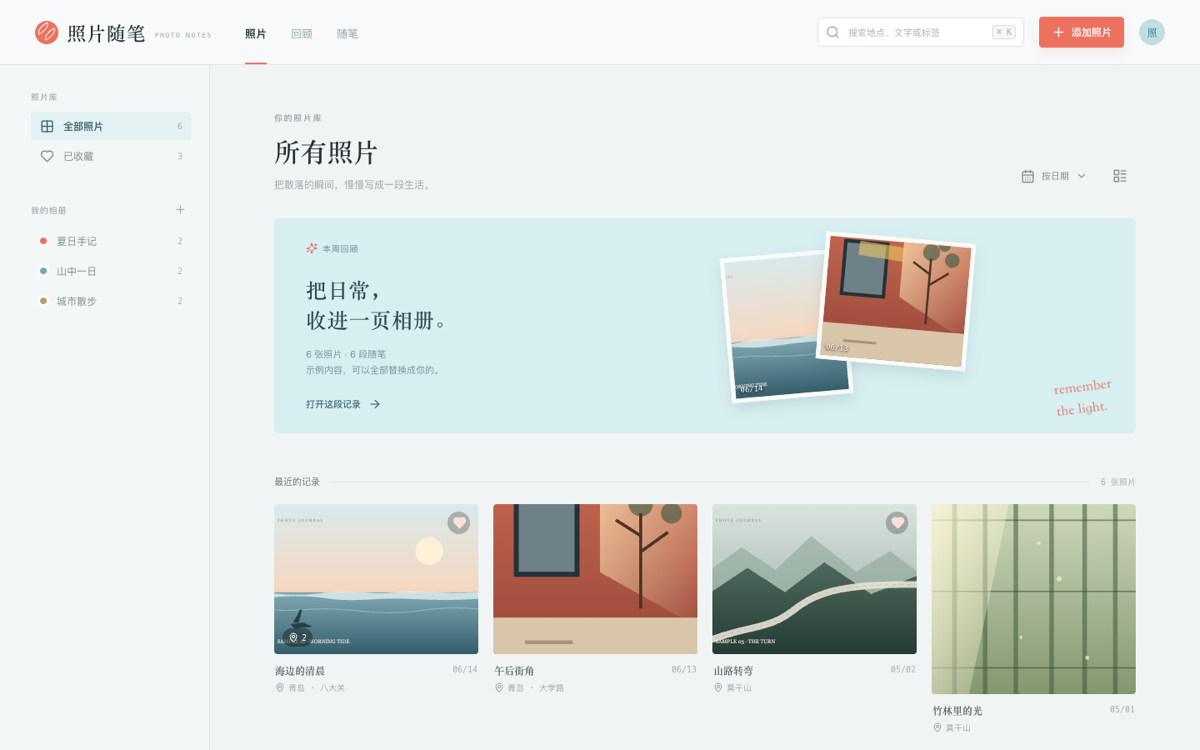
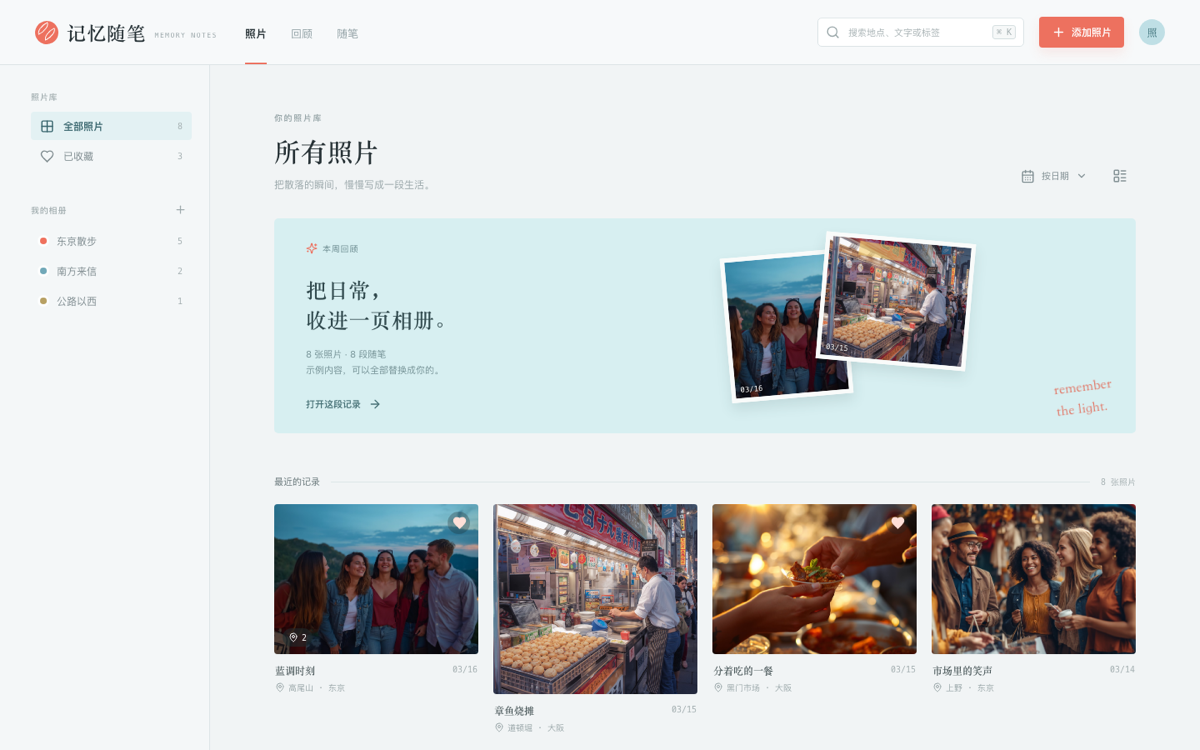
feat: restore the Memory Journal name and use real demo photos

diff --git a/src/main.jsx b/src/main.jsx
@@ -11,48 +11,58 @@ import './styles.css'
 const P = `${import.meta.env.BASE_URL}photos/`
 const seedPhotos = [
   {
-    id: 1, src: P + 'sample-01.svg', title: '海边的清晨', date: '2025.06.14', place: '青岛 · 八大关', album: '夏日手记',
-    note: '六点不到，海边只有跑步的人和收网的船。风把云推得很慢，我们沿着堤岸走了很久，没有说太多话。',
-    tags: ['海', '清晨'], favorite: true, aspect: 'wide',
-    pins: [{ id: 11, x: 56, y: 38, text: '远处的船刚出海。' }, { id: 12, x: 78, y: 66, text: '礁石上还留着潮水。' }], strokes: []
+    id: 1, src: P + 'memory-01.jpg', title: '蓝调时刻', date: '2025.03.16', place: '高尾山 · 东京', album: '东京散步',
+    note: '下山前的十分钟，天色突然变成很深的蓝。我们谁也没有催促谁，只是一起站在风里。后来想起东京，最先出现的不是霓虹，而是这一刻。',
+    tags: ['朋友', '山野', '黄昏'], favorite: true, aspect: 'wide',
+    pins: [{ id: 11, x: 54, y: 34, text: '风从山谷里吹上来，很凉。' }, { id: 12, x: 76, y: 59, text: '所有人都笑得很松弛。' }], strokes: []
   },
   {
-    id: 2, src: P + 'sample-02.svg', title: '午后街角', date: '2025.06.13', place: '青岛 · 大学路', album: '夏日手记',
-    note: '梧桐的影子落在红墙上，咖啡店把椅子摆到了路边。我们在这里等一场突如其来的阵雨。',
-    tags: ['街道', '午后'], favorite: false, aspect: 'standard', pins: [], strokes: []
+    id: 2, src: P + 'memory-02.jpg', title: '章鱼烧摊', date: '2025.03.15', place: '道顿堀 · 大阪', album: '东京散步',
+    note: '拐进小巷以后，先闻到了酱汁的甜味。老板手里的签子转得飞快，等到入口却还是被烫得说不出话。',
+    tags: ['街巷', '食物'], favorite: false, aspect: 'tall', pins: [], strokes: []
   },
   {
-    id: 3, src: P + 'sample-03.svg', title: '山路转弯', date: '2025.05.02', place: '莫干山', album: '山中一日',
-    note: '转过这个弯，整片山谷忽然安静下来。竹叶摩擦的声音像很远的雨。',
-    tags: ['山', '公路'], favorite: true, aspect: 'wide', pins: [], strokes: []
+    id: 3, src: P + 'memory-03.jpg', title: '分着吃的一餐', date: '2025.03.15', place: '黑门市场 · 大阪', album: '东京散步',
+    note: '旅行里最好吃的东西，常常不是预约过的那一家，而是大家站着分完的一小盒。',
+    tags: ['食物', '朋友'], favorite: true, aspect: 'standard', pins: [], strokes: []
   },
   {
-    id: 4, src: P + 'sample-04.svg', title: '竹林里的光', date: '2025.05.01', place: '莫干山', album: '山中一日',
-    note: '光从竹叶间漏下来，落在地上是一小块一小块的。走快了就追不上。',
-    tags: ['竹林', '光'], favorite: false, aspect: 'tall', pins: [], strokes: []
+    id: 4, src: P + 'memory-04.jpg', title: '市场里的笑声', date: '2025.03.14', place: '上野 · 东京', album: '东京散步',
+    note: '摊主听不懂我们的日语，我们也没完全听懂他的玩笑，但大家还是一起笑了很久。',
+    tags: ['市集', '朋友'], favorite: false, aspect: 'wide', pins: [], strokes: []
   },
   {
-    id: 5, src: P + 'sample-05.svg', title: '雨后的便利店', date: '2025.04.18', place: '上海 · 静安', album: '城市散步',
-    note: '雨停之后，便利店门口的灯格外亮。买了一瓶汽水，站在屋檐下看行人收伞。',
-    tags: ['城市', '雨'], favorite: false, aspect: 'standard', pins: [], strokes: []
+    id: 5, src: P + 'memory-05.jpg', title: '夜晚开始发亮', date: '2024.11.08', place: '考山路 · 曼谷', album: '南方来信',
+    note: '六点以后，街道像忽然换了一种语言。招牌亮起来，音乐从每一扇门里漫出来。',
+    tags: ['夜色', '街巷'], favorite: true, aspect: 'standard', pins: [], strokes: []
   },
   {
-    id: 6, src: P + 'sample-06.svg', title: '天桥上的晚风', date: '2025.04.17', place: '上海 · 徐汇', album: '城市散步',
-    note: '下班的人从桥上经过，车流在脚下连成一条发亮的线。晚风把白天最后一点热气吹散了。',
-    tags: ['夜色', '城市'], favorite: true, aspect: 'wide', pins: [], strokes: []
+    id: 6, src: P + 'memory-06.jpg', title: '路边的晚餐', date: '2024.11.07', place: '唐人街 · 曼谷', album: '南方来信',
+    note: '塑料凳、柠檬汽水和一场没有计划的晚餐。回酒店的路上，每个人身上都还带着炭火味。',
+    tags: ['食物', '夜晚'], favorite: false, aspect: 'tall', pins: [], strokes: []
+  },
+  {
+    id: 7, src: P + 'memory-07.jpg', title: '很远的山', date: '2024.08.23', place: '黑山 · 南达科他', album: '公路以西',
+    note: '公路几乎没有尽头。云的影子越过山体时，我们把车停在了路边。',
+    tags: ['公路', '山野'], favorite: false, aspect: 'wide', pins: [], strokes: []
+  },
+  {
+    id: 8, src: P + 'memory-08.jpg', title: '摊火', date: '2025.03.14', place: '新世界 · 大阪', album: '东京散步',
+    note: '火光映在铁板上，整条街都有一种热腾腾的生命力。',
+    tags: ['街巷', '食物'], favorite: false, aspect: 'standard', pins: [], strokes: []
   },
 ]
 
 const albumPalette = ['#ef715d', '#71a8b8', '#b7a063', '#8a9a5b']
 
 function Logo() {
-  return <div className="logo" aria-label="照片随笔首页"><span className="logo-mark"><i></i><i></i></span><b>照片随笔</b><small>PHOTO NOTES</small></div>
+  return <div className="logo" aria-label="记忆随笔首页"><span className="logo-mark"><i></i><i></i></span><b>记忆随笔</b><small>MEMORY NOTES</small></div>
 }
 
 function App() {
   const [photos, setPhotos] = useState(() => {
     try {
-      const saved = localStorage.getItem('photo-journal-starter-v1')
+      const saved = localStorage.getItem('memory-journal-v1')
       return saved ? JSON.parse(saved) : seedPhotos
     } catch { return seedPhotos }
   })
@@ -65,7 +75,7 @@ function App() {
 
   useEffect(() => {
     const clean = photos.filter(p => !p.src.startsWith('blob:'))
-    localStorage.setItem('photo-journal-starter-v1', JSON.stringify(clean))
+    localStorage.setItem('memory-journal-v1', JSON.stringify(clean))
   }, [photos])
 
   const notify = (message) => {

diff --git a/index.html b/index.html
@@ -4,8 +4,8 @@
     <meta charset="UTF-8" />
     <meta name="viewport" content="width=device-width, initial-scale=1.0" />
     <meta name="theme-color" content="#eef2f4" />
-    <meta name="description" content="照片随笔 — 用照片和文字记录日常的本地相册模板" />
-    <title>照片随笔 · Photo Journal Starter</title>
+    <meta name="description" content="记忆随笔 — 用照片和文字记录日常的本地相册模板" />
+    <title>记忆随笔 · Memory Journal</title>
   </head>
   <body>
     <div id="root"></div>

diff --git a/README.md b/README.md
@@ -1,6 +1,6 @@
-# Photo Journal Starter
+# 记忆随笔 · Memory Journal
 
-A local-first photo journal built with React and Vite. Browse a photo library, open a photo, write a note beside it, pin details, and draw on the image. All demo content is synthetic; replace it with your own.
+A local-first memory journal built with React and Vite. Browse a photo library, open a photo, write a note beside it, pin details, and draw on the image. Demo notes are fictional and the demo photos are placeholders for layout; replace them with your own.
 
 ![Preview](assets/preview.png)
 
@@ -12,7 +12,7 @@ Demo: <https://ryankiinovo.github.io/photo-journal-starter/>
 - Photo editor with three layouts, pins, freehand drawing, notes, and tags
 - Notes view that collects every photo with writing
 - Local-first persistence via `localStorage`
-- Six synthetic SVG demo photos, no third-party image assets
+- Eight demo JPG photos, included only to show the layout
 - Responsive layout; no backend and no API keys
 
 ## Quick start
@@ -33,7 +33,7 @@ Requires Node.js 20 or newer.
 ├── index.html
 ├── package.json
 ├── vite.config.js
-├── public/photos/       # demo SVG images
+├── public/photos/       # demo JPG images (replace with your own)
 └── src/
     ├── main.jsx         # app, components, seed data
     └── styles.css
@@ -54,7 +54,7 @@ Uploaded files are previewed with `URL.createObjectURL`; they are not uploaded a
 
 ## Privacy and assets
 
-This starter ships no personal photos, analytics, cookies, or network calls to an application backend. The demo images are original SVG illustrations created for this repository. If you add photos, check that you have the right to publish them.
+This starter ships no analytics, cookies, or network calls to an application backend. The demo photos and notes are included only to demonstrate the interface; they are not a personal archive. If you reuse the template, replace `public/photos/` and `seedPhotos` with your own content, and check that you have the right to publish every image.
 
 ## License
 

diff --git a/README.zh-CN.md b/README.zh-CN.md
@@ -1,6 +1,6 @@
-# 照片随笔 · Photo Journal Starter
+# 记忆随笔 · Memory Journal
 
-一个用 React + Vite 写的本地优先照片随笔模板：浏览相册、打开照片、在旁边写一段话、加标注、在图片上画线。仓库里的示例文案与图片全部是合成的，替换成你自己的即可。
+一个用 React + Vite 写的本地优先照片随笔模板：浏览相册、打开照片、在旁边写一段话、加标注、在图片上画线。示例文案是虚构的，示例照片只用于展示版式；替换成你自己的内容即可。
 
 ![预览](assets/preview.png)
 
@@ -12,7 +12,7 @@
 - 照片编辑器：三种布局、图片标注、自由画笔、随笔与标签
 - 随笔视图：集中展示所有写过文字的照片
 - 使用 `localStorage` 的本地优先存储
-- 6 张合成 SVG 示例照片，不依赖第三方图库
+- 8 张 JPG 示例照片，只用于展示版式
 - 响应式布局，无后端、无 API Key
 
 ## 快速开始
@@ -33,7 +33,7 @@ npm run preview
 ├── index.html
 ├── package.json
 ├── vite.config.js
-├── public/photos/       # 示例 SVG 图片
+├── public/photos/       # 示例 JPG 图片（替换成你自己的）
 └── src/
     ├── main.jsx         # 应用、组件、示例数据
     └── styles.css
@@ -54,7 +54,7 @@ npm run preview
 
 ## 隐私与素材
 
-模板不包含个人照片、统计脚本、Cookie，也不会向应用后端发请求。示例图片是为本仓库创作的原创 SVG 插画。加入自己的照片前，请确认你有权公开它们。
+模板不包含统计脚本、Cookie，也不会向应用后端发请求。示例照片与文案只用于演示界面，不是个人相册。复用模板时，请替换 `public/photos/` 和 `seedPhotos`，并确认你有权公开每一张图片。
 
 ## 许可证
 
